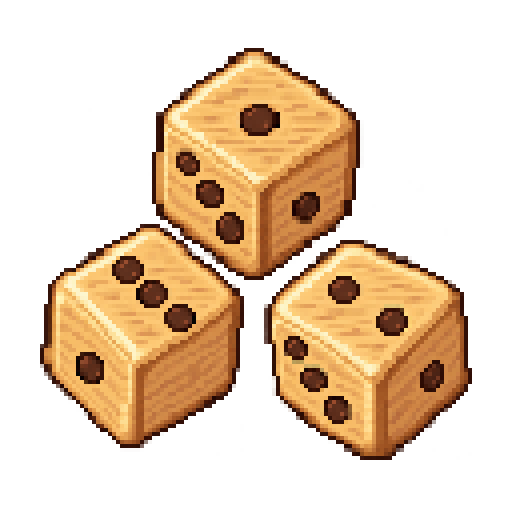
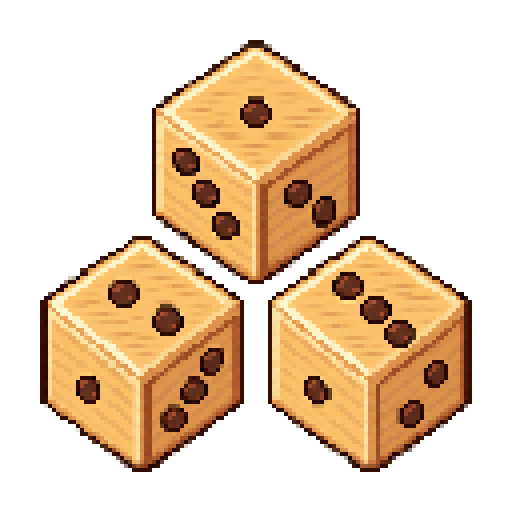
Correct wooden dice geometry and duplicated adjacent pips

Changed region(s): [[0.0625, 0.0625, 0.9375, 0.9375]]

diff --git a/Docs/Art/CharacterArtProduction.md b/Docs/Art/CharacterArtProduction.md
@@ -17,6 +17,9 @@
 - コマは元の生成処理を参照した`render-classic-pieces.js`とYuji Boku書体で描画する。元画像を使う15系列は一切描き直さない。新規の二文字は縦組み。ライセンスを同梱する。
 - 双剣は既存の剣に合わせた青緑の直線的な両刃剣2本。戦士も同じ直剣を装備。磁石は赤いU字型と銀色の極。賽子は数字キャラに合わせた木製・茶色の目に変更。
 - 上記4種は内蔵image_genによる編集。参照・全プロンプト・原画保存先は`CharacterArtRefinements.json`、原画は`Assets/Art/Generated/CharacterMotifsReviewed/`に保存。既存画像や前案は削除しない。
+- 賽子は追加レビューで歪みを修正。辺と面の向きを3個で揃え、上のサイコロの隣接面に「1」が重複していた点も修正した。採用原画は`DiceGeometryV2.png`。木製の質感・3個の構成・128px論理解像度を維持し、他キャラやコマを変更しない。
+- 歪み修正後に135画像の検査とUnity取込、`art-dice`の召喚・コマへ戻るテスト（1/1）を再確認。記録は`tmp/e2e/dice-geometry/`と`tmp/character-art/dice-geometry-comparison.png`。前段の7件通過とは別の、賽子だけの追加確認。
+- 通常ローカル版も更新し、PC・スマホ縦長・横長の描画と実行時例外なしを再確認。今回は画像と制作記録のみを変更し、性能・戦闘ルール・コマは変更していない。
 
 ## 保存先
 
